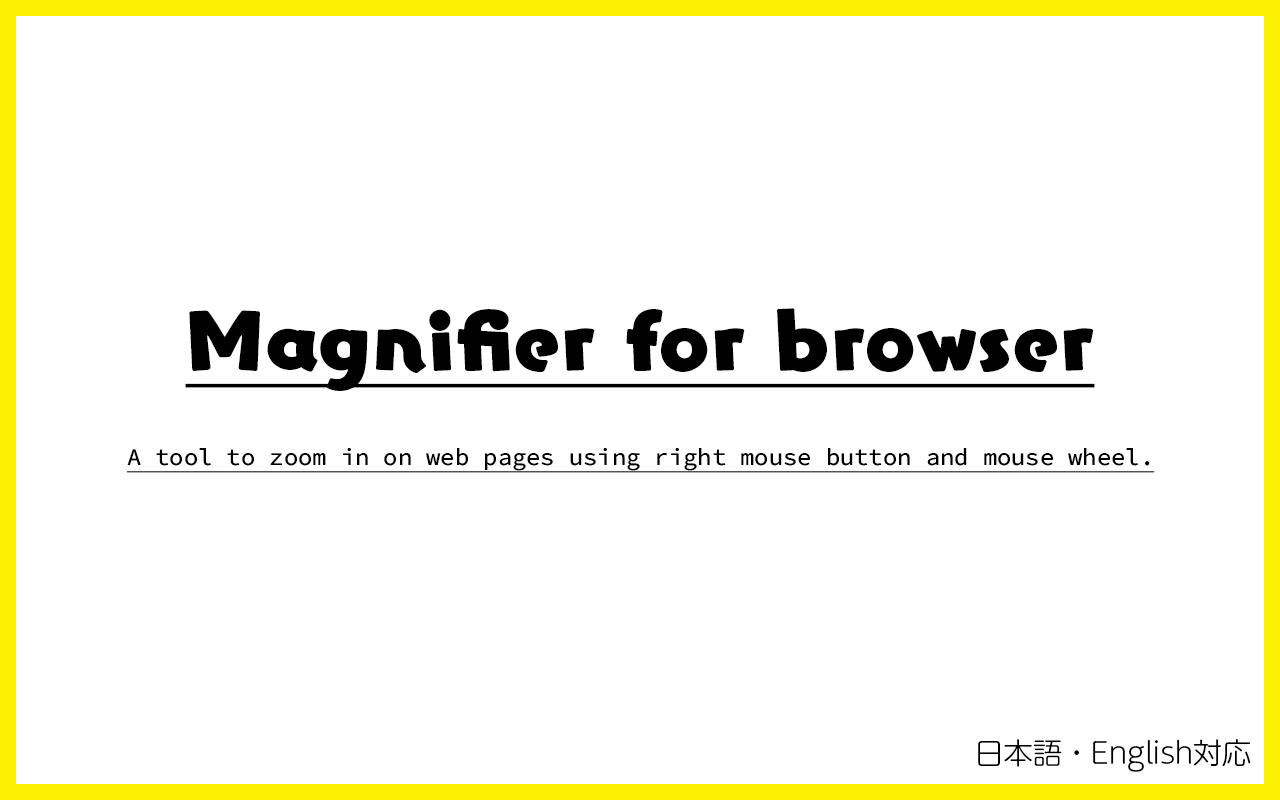
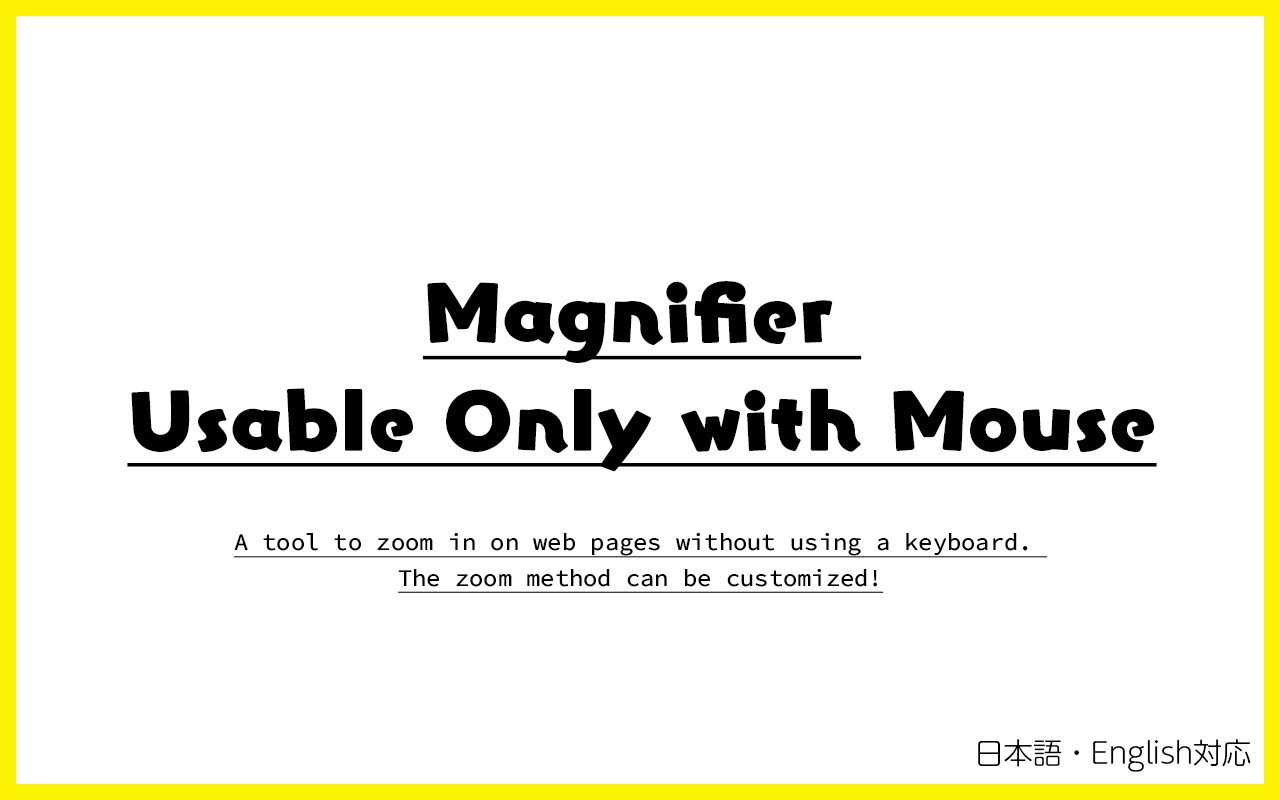
1.0.1

Changed region(s): [[0.0938, 0.3438, 0.9062, 0.5938], [0.1875, 0.6562, 0.8125, 0.75]]

diff --git a/README--ja.md b/README--ja.md
@@ -1,4 +1,4 @@
-# 拡大鏡 for Browser
+# マウスユーザのための拡大鏡
 
 [![MIT License](http://img.shields.io/badge/license-MIT-blue.svg?style=flat)](LICENSE) [![Maintainability](https://api.codeclimate.com/v1/badges/f56cd71a3b800511f2e0/maintainability)](https://codeclimate.com/github/heppokofrontend/chrome-extension-magnifier/maintainability)
 

diff --git a/README.md b/README.md
@@ -1,4 +1,4 @@
-# Magnifier for browser
+# Magnifier Usable Only with Mouse
 
 [![MIT License](http://img.shields.io/badge/license-MIT-blue.svg?style=flat)](LICENSE) [![Maintainability](https://api.codeclimate.com/v1/badges/f56cd71a3b800511f2e0/maintainability)](https://codeclimate.com/github/heppokofrontend/chrome-extension-magnifier/maintainability)
 
